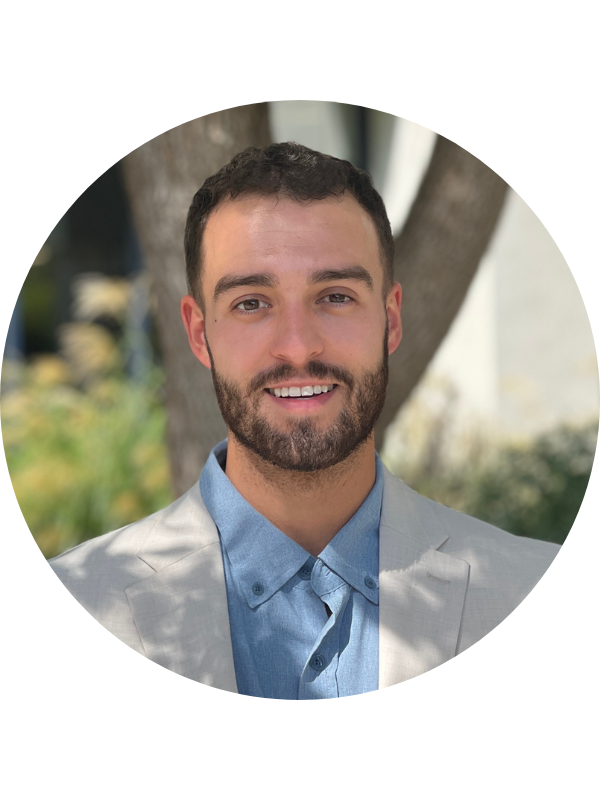
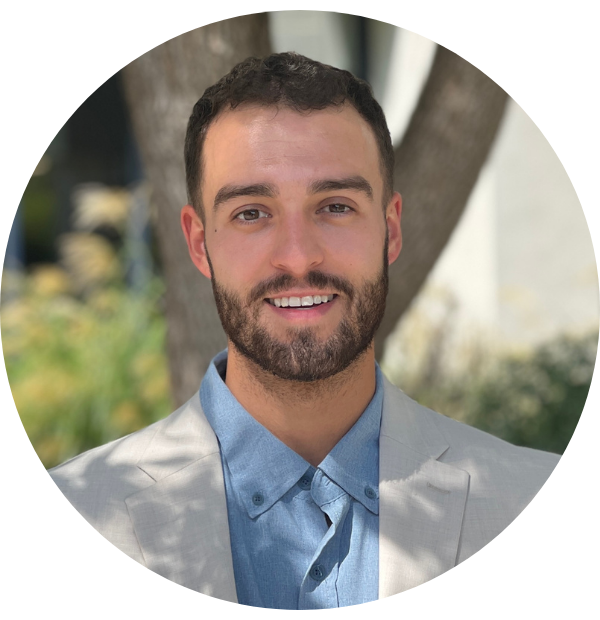
Crop photos tight + fix team card CSS for proper fit
- Crop brothers.png: remove black border and white padding (600x800 → 592x549)
- Crop headshots: trim excess white space around circular crops
- team-photo CSS: white bg, no padding, object-fit cover to fill cards

diff --git a/team.html b/team.html
@@ -12,9 +12,9 @@
 .team-card{background:var(--white);border-radius:var(--radius-lg);overflow:hidden;box-shadow:var(--shadow);border:1px solid var(--gray-200);}
 .team-photo{padding:40px 40px 0;background:var(--cream);display:flex;align-items:center;justify-content:center;color:var(--white);font-family:var(--font-heading);font-size:4.5rem;position:relative;overflow:hidden;}
 .team-photo::after{content:'';position:absolute;inset:0;background:radial-gradient(circle at 30% 30%,rgba(200,168,78,0.2) 0%,transparent 60%);}
-.team-photo.has-photo{background:var(--cream);}
+.team-photo.has-photo{background:var(--white);padding:0;}
 .team-photo.has-photo::after{display:none;}
-.team-photo.has-photo img{position:relative;z-index:1;width:85%;max-width:320px;height:auto;object-fit:contain;display:block;border-radius:50%;}
+.team-photo.has-photo img{position:relative;z-index:1;width:100%;height:100%;object-fit:cover;object-position:center top;display:block;}
 .team-info{padding:36px;}
 .team-info h4{font-family:var(--font-heading);color:var(--gray-900);font-size:1.55rem;margin-bottom:4px;}
 .team-info .role{color:var(--maroon);font-weight:600;font-size:13px;margin-bottom:18px;text-transform:uppercase;letter-spacing:1.5px;}
